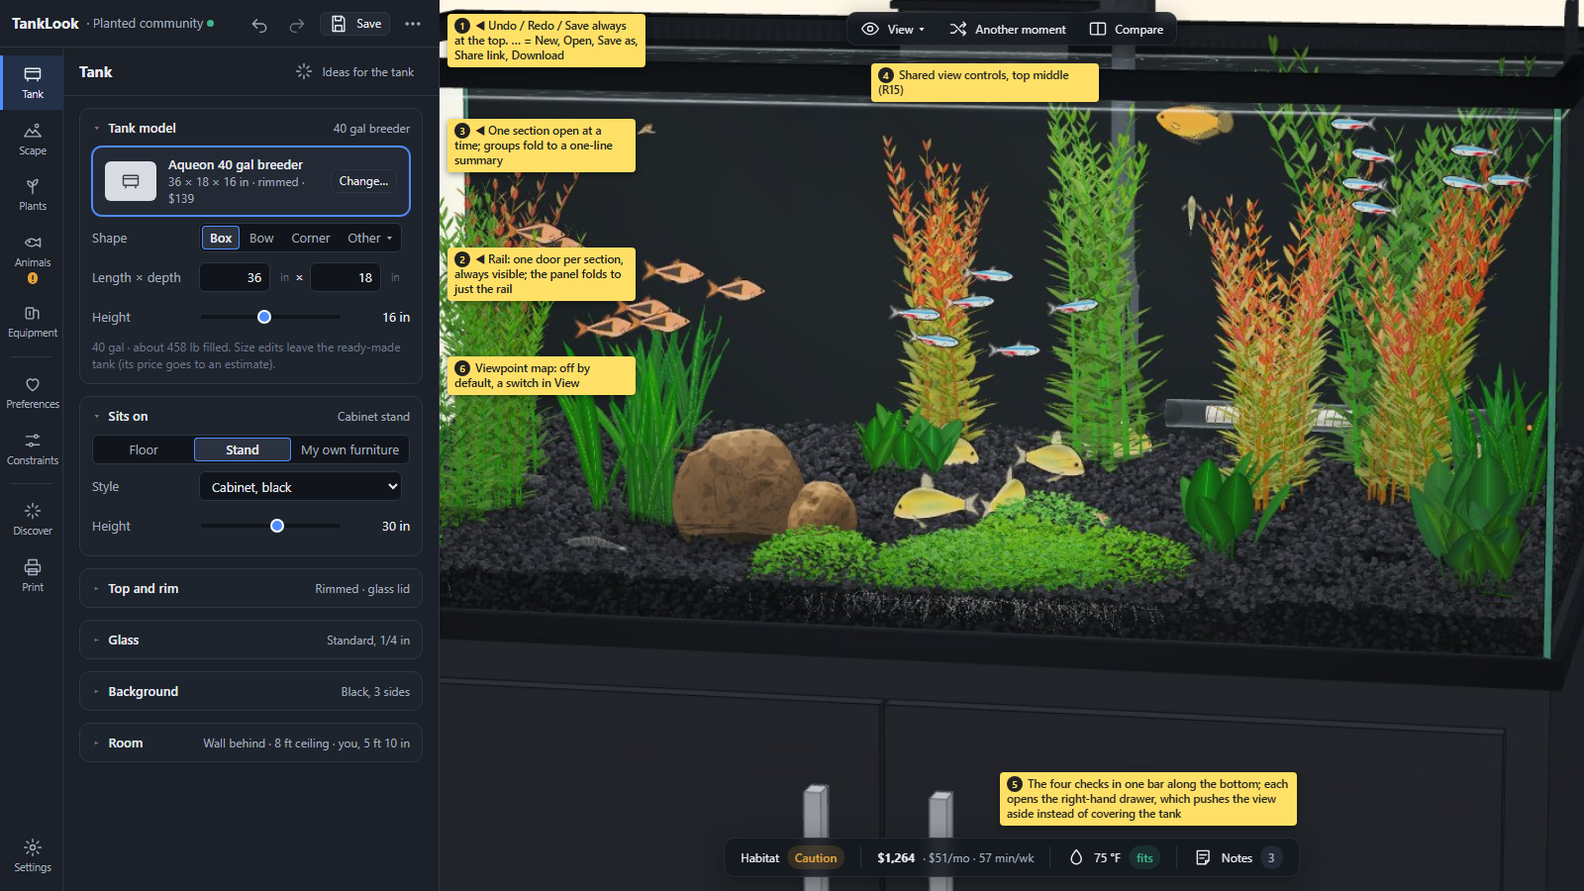
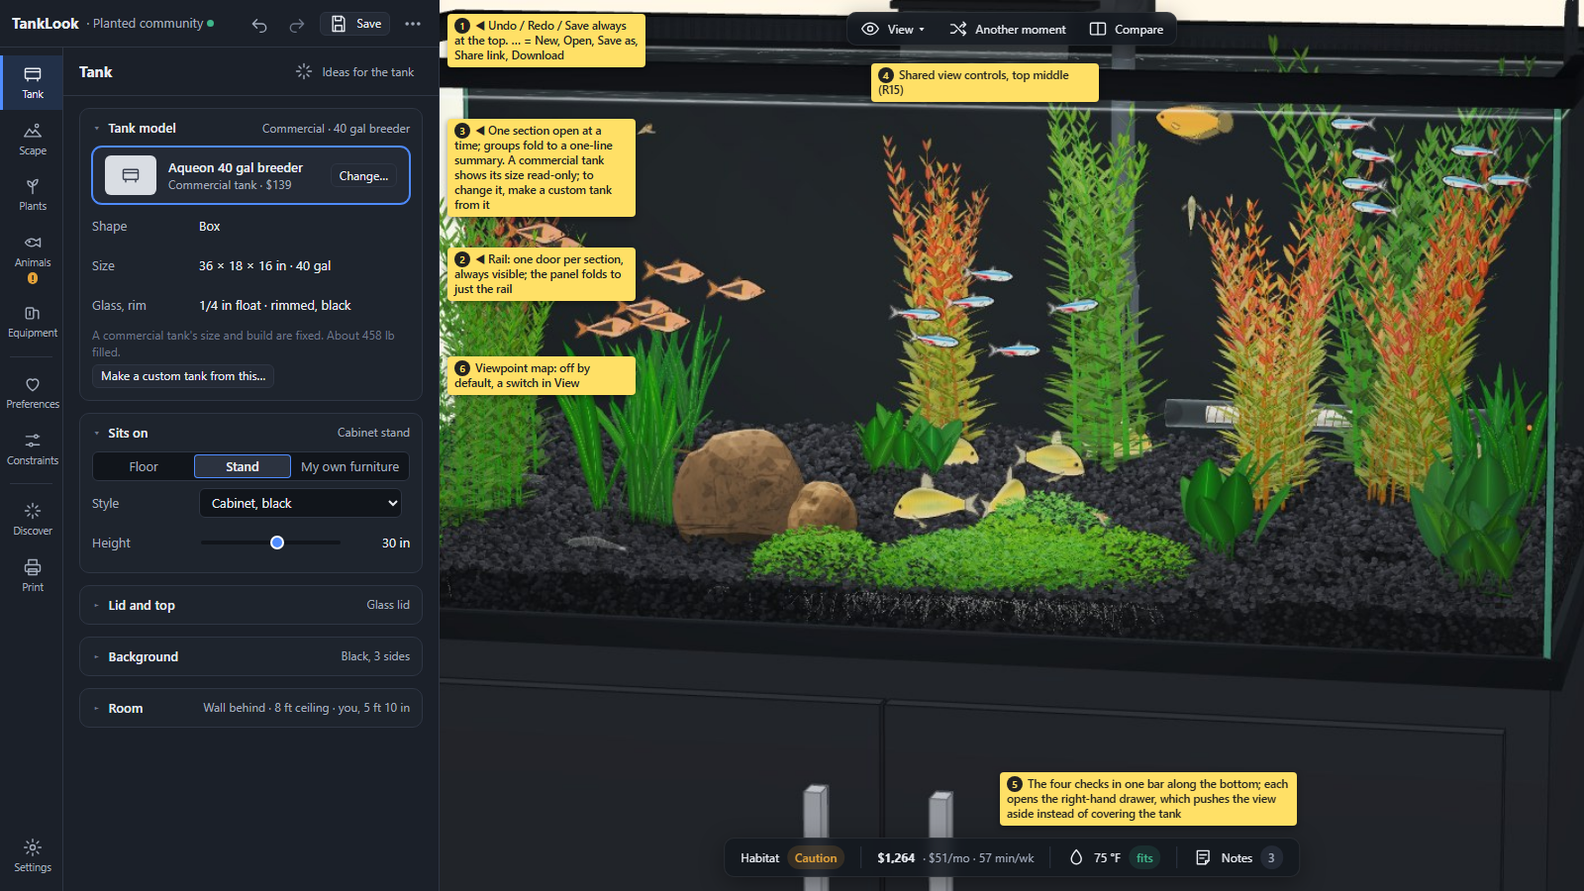
UI2: commercial vs custom tanks per Nathan 11-13
Commercial tanks are fixed (size and build read-only); custom tanks come from a new Custom
tank maker and are saved to a per-browser library kept across setups (setups keep their own
copy). Doc 2/3/7/9 updated: tank shape and size have one home (the maker), new step P9
(custom tank library + migration of hand-edited product tanks to auto-named custom tanks).
Shot 01 redone (no editable size on the Aqueon 40 breeder); new 06-tank-picker and
07-custom-tank-maker.

diff --git a/research/design/ui2/06-tank-picker.html b/research/design/ui2/06-tank-picker.html
@@ -1,0 +1,50 @@
+<!doctype html>
+<html lang="en"><head><meta charset="utf-8"><title>UI2 mockup: Tank > Choose a tank (commercial / custom)</title>
+<link rel="stylesheet" href="tokens.css">
+<style>
+  .app { display: grid; height: 100vh; grid-template-columns: var(--rail-w) 420px 1fr; grid-template-rows: var(--header-h) 1fr; grid-template-areas: "head head view" "rail panel view"; }
+  .app > header { grid-area: head; } .app > .rail { grid-area: rail; } .app > .panel { grid-area: panel; } .app > .viewer { grid-area: view; }
+  .tk { display: grid; grid-template-columns: 44px minmax(0,1fr) auto; gap: var(--s3); align-items: center; padding: var(--s2) var(--s3); }
+  .tk .thumb { width: 44px; height: 36px; display: grid; place-items: center; color: #3a4150; }
+  .lockbtn { height: var(--ctl-h-sm); padding: 0 var(--s2); border-radius: var(--r-pill); border: 1px solid var(--line); background: transparent; color: var(--text-3); display: inline-flex; align-items: center; }
+  .lockbtn .i { width: 14px; height: 14px; }
+  .gh .n { color: var(--text-3); font-weight: 400; }
+</style></head>
+<body>
+<script src="icons.js"></script><script src="shell.js"></script>
+<div class="app" id="app"></div>
+<script>
+const tk = (name, meta, o = {}) => `<div class="card tk ${o.sel ? 'sel' : ''}"><div class="thumb">${I('tank')}</div>
+  <div><div class="t">${name}</div><div class="m">${meta}</div>${o.pills ? `<div style="display:flex;gap:4px;margin-top:4px">${o.pills}</div>` : ''}</div>
+  <div style="display:flex;gap:4px;align-items:center">${o.right || ''}<button class="lockbtn" title="Use this one for sure">${I('lock')}</button></div></div>`;
+document.getElementById('app').innerHTML = apphead() + rail('tank', {animals: '!'}) + `
+<section class="panel">
+  <div class="sec-head"><button class="btn icon ghost sm" title="Back to Tank">&#9664;</button><h2>Choose a tank</h2><span class="hint">arrow keys flip, the tank redraws</span></div>
+  <div class="sec-body">
+    <div class="input" style="display:flex;align-items:center;gap:6px;color:var(--text-3)">${I('search')} Search tanks</div>
+    <div class="group open"><div class="gh">Custom tanks <span class="n">2</span><span class="sum">yours, kept across setups</span></div><div class="gb">
+      ${tk('Living-room bow 60', 'Bow front &middot; 48 &times; 18 &times; 24 in &middot; 62 gal &middot; rimless', {pills: '<span class="pill ok">Owned</span>', right: '<button class="btn sm ghost">Edit</button>'})}
+      ${tk('Shelf cube', 'Cube &middot; 12 &times; 12 &times; 12 in &middot; 7.5 gal &middot; rimless', {right: '<button class="btn sm ghost">Edit</button>'})}
+      <button class="btn sm" style="justify-self:start">${I('plus')} New custom tank</button>
+    </div></div>
+    <div class="group open"><div class="gh">Commercial tanks <span class="n">118</span><span class="sum">fixed size and build</span></div><div class="gb">
+      <div style="display:flex;gap:6px;flex-wrap:wrap"><span class="chip">Under 20 gal</span><span class="chip on">20-40</span><span class="chip">40-75</span><span class="chip">75+</span><span class="chip on">Fits my space</span></div>
+      ${tk('Aqueon 29 gal', '30 &times; 12 &times; 18 in &middot; rimmed &middot; $99', {right: '<span class="hint">$450-1,400</span>'})}
+      ${tk('Aqueon 40 gal breeder', '36 &times; 18 &times; 16 in &middot; rimmed &middot; $139', {sel: 1, pills: '<span class="pill accent">In use</span>', right: '<span class="hint">$600-1,900</span>'})}
+      ${tk('Waterbox Clear 35.2', '31.5 &times; 15.7 &times; 15.7 in &middot; rimless &middot; $330', {right: '<span class="hint">$800-2,300</span>'})}
+      ${tk('UNS 90U', '35.4 &times; 17.7 &times; 17.7 in &middot; rimless &middot; $380', {right: '<span class="hint">$850-2,400</span>'})}
+    </div></div>
+    <button class="btn primary" style="justify-self:stretch">Choose Aqueon 40 gal breeder</button>
+  </div>
+</section>
+<main class="viewer">
+  <div class="ov" style="top:12px;left:50%;transform:translateX(-50%)">${toolbar()}</div>
+  <div class="ov" style="bottom:14px;left:50%;transform:translateX(-50%)">${checkbar({full: 1})}</div>
+</main>`;
+</script>
+<div style="position:absolute;inset:0;pointer-events:none">
+  <div class="note" data-n="1" style="top:110px;left:492px;max-width:250px">&#9664; Custom tanks: made in the custom tank maker, named, kept across setups</div>
+  <div class="note" data-n="2" style="top:330px;left:492px;max-width:250px">&#9664; Commercial tanks: off the shelf; size and build cannot be edited. Grey range = finished-tank price (Nathan 11-05; mockup numbers)</div>
+  <div class="note" data-n="3" style="top:200px;left:492px;max-width:250px">&#9664; Owned pill and "for sure" lock work as in Equipment</div>
+</div>
+</body></html>

diff --git a/research/design/ui2/01-editor-desktop.html b/research/design/ui2/01-editor-desktop.html
@@ -13,22 +13,22 @@ document.getElementById('app').innerHTML = apphead() + rail('tank', {animals: '!
 <section class="panel">
   <div class="sec-head"><h2>Tank</h2><button class="btn sm ghost">${I('ideas')} Ideas for the tank</button></div>
   <div class="sec-body">
-    <div class="group open"><div class="gh">Tank model <span class="sum">40 gal breeder</span></div><div class="gb">
+    <div class="group open"><div class="gh">Tank model <span class="sum">Commercial &middot; 40 gal breeder</span></div><div class="gb">
       <div class="card media sel"><div class="thumb" style="display:grid;place-items:center;color:#3a4150">${I("tank")}</div>
-        <div><div class="t">Aqueon 40 gal breeder</div><div class="m">36 &times; 18 &times; 16 in &middot; rimmed &middot; $139</div></div>
+        <div><div class="t">Aqueon 40 gal breeder</div><div class="m">Commercial tank &middot; $139</div></div>
         <button class="btn sm">Change&hellip;</button></div>
-      <div class="row"><span class="lbl">Shape</span><div class="seg"><button class="on">Box</button><button>Bow</button><button>Corner</button><button>Other &#9662;</button></div><span></span></div>
-      <div class="row"><span class="lbl">Length &times; depth</span><div style="display:flex;gap:6px;align-items:center"><input class="input num" value="36"><span class="unit">in</span> &times; <input class="input num" value="18"><span class="unit">in</span></div><span></span></div>
-      <div class="row"><span class="lbl">Height</span><input class="slider" type="range" value="45"><span class="val">16 in</span></div>
-      <div class="hint">40 gal &middot; about 458 lb filled. Size edits leave the ready-made tank (its price goes to an estimate).</div>
+      <div class="row"><span class="lbl">Shape</span><span>Box</span><span></span></div>
+      <div class="row"><span class="lbl">Size</span><span>36 &times; 18 &times; 16 in &middot; 40 gal</span><span></span></div>
+      <div class="row"><span class="lbl">Glass, rim</span><span>1/4 in float &middot; rimmed, black</span><span></span></div>
+      <div class="hint">A commercial tank's size and build are fixed. About 458 lb filled.</div>
+      <button class="btn sm" style="justify-self:start">Make a custom tank from this&hellip;</button>
     </div></div>
     <div class="group open"><div class="gh">Sits on <span class="sum">Cabinet stand</span></div><div class="gb">
       <div class="seg full"><button>Floor</button><button class="on">Stand</button><button>My own furniture</button></div>
       <div class="row"><span class="lbl">Style</span><select class="select"><option>Cabinet, black</option></select><span></span></div>
       <div class="row"><span class="lbl">Height</span><input class="slider" type="range" value="55"><span class="val">30 in</span></div>
     </div></div>
-    <div class="group"><div class="gh">Top and rim <span class="sum">Rimmed &middot; glass lid</span></div></div>
-    <div class="group"><div class="gh">Glass <span class="sum">Standard, 1/4 in</span></div></div>
+    <div class="group"><div class="gh">Lid and top <span class="sum">Glass lid</span></div></div>
     <div class="group"><div class="gh">Background <span class="sum">Black, 3 sides</span></div></div>
     <div class="group"><div class="gh">Room <span class="sum">Wall behind &middot; 8 ft ceiling &middot; you, 5 ft 10 in</span></div></div>
   </div>
@@ -41,7 +41,7 @@ document.getElementById('app').innerHTML = apphead() + rail('tank', {animals: '!
 <div style="position:absolute;inset:0;pointer-events:none">
   <div class="note" data-n="1" style="top:14px;left:452px;max-width:200px">&#9664; Undo / Redo / Save always at the top. &hellip; = New, Open, Save as, Share link, Download</div>
   <div class="note" data-n="2" style="top:250px;left:452px;max-width:190px">&#9664; Rail: one door per section, always visible; the panel folds to just the rail</div>
-  <div class="note" data-n="3" style="top:120px;left:452px;max-width:190px">&#9664; One section open at a time; groups fold to a one-line summary</div>
+  <div class="note" data-n="3" style="top:120px;left:452px;max-width:190px">&#9664; One section open at a time; groups fold to a one-line summary. A commercial tank shows its size read-only; to change it, make a custom tank from it</div>
   <div class="note" data-n="4" style="top:64px;left:880px">Shared view controls, top middle (R15)</div>
   <div class="note" data-n="5" style="bottom:66px;left:1010px;max-width:300px">The four checks in one bar along the bottom; each opens the right-hand drawer, which pushes the view aside instead of covering the tank</div>
   <div class="note" data-n="6" style="top:360px;left:452px;max-width:190px">Viewpoint map: off by default, a switch in View</div>

diff --git a/research/design/ui2/07-custom-tank-maker.html b/research/design/ui2/07-custom-tank-maker.html
@@ -1,0 +1,46 @@
+<!doctype html>
+<html lang="en"><head><meta charset="utf-8"><title>UI2 mockup: custom tank maker</title>
+<link rel="stylesheet" href="tokens.css">
+<style>
+  .app { display: grid; height: 100vh; grid-template-columns: var(--rail-w) 420px 1fr; grid-template-rows: var(--header-h) 1fr; grid-template-areas: "head head view" "rail panel view"; }
+  .app > header { grid-area: head; } .app > .rail { grid-area: rail; } .app > .panel { grid-area: panel; } .app > .viewer { grid-area: view; }
+  .foot { display: flex; gap: var(--s2); padding: var(--s3) var(--s4); border-top: 1px solid var(--line); }
+</style></head>
+<body>
+<script src="icons.js"></script><script src="shell.js"></script>
+<div class="app" id="app"></div>
+<script>
+const sl = (l, v, p) => `<div class="row"><span class="lbl">${l}</span><input class="slider" type="range" value="${p}"><span class="val">${v}</span></div>`;
+document.getElementById('app').innerHTML = apphead() + rail('tank', {animals: '!'}) + `
+<section class="panel">
+  <div class="sec-head"><button class="btn icon ghost sm" title="Back">&#9664;</button><h2>New custom tank</h2><span class="hint">started blank</span></div>
+  <div class="sec-body">
+    <div class="row"><span class="lbl">Name</span><input class="input" value="Living-room bow 60" style="width:100%"><span></span></div>
+    <div class="group open"><div class="gh">Shape</div><div class="gb">
+      <div class="seg full"><button>Box</button><button class="on">Bow</button><button>Corner</button><button>Cube</button><button>More &#9662;</button></div>
+    </div></div>
+    <div class="group open"><div class="gh">Size <span class="sum">62 gal &middot; about 690 lb filled</span></div><div class="gb">
+      ${sl('Length', '48 in', 58)}${sl('Depth', '18 in', 40)}${sl('Height', '24 in', 55)}${sl('Bow depth', '3 in', 30)}
+    </div></div>
+    <div class="group open"><div class="gh">Glass and rim</div><div class="gb">
+      <div class="row"><span class="lbl">Glass</span><div class="seg"><button>Float</button><button class="on">Low-iron</button></div><span></span></div>
+      ${sl('Thickness', '3/8 in', 60)}
+      <div class="row"><span class="lbl">Rim</span><div class="seg"><button>Rimmed</button><button class="on">Rimless</button></div><span></span></div>
+      <div class="hint">48 x 24 in rimless needs at least 3/8 in glass.</div>
+    </div></div>
+    <div class="card" style="grid-template-columns:1fr auto;align-items:center"><div><div class="t">Build cost estimate</div><div class="m">custom glass, low-iron, rimless</div></div><span class="big" style="font-size:var(--fs-lg)">$780</span></div>
+    <label class="row" style="grid-template-columns:auto 1fr"><span class="toggle on"></span><span>I own this tank</span></label>
+  </div>
+  <div class="foot"><button class="btn primary" style="flex:1">Save to my tanks and use it</button><button class="btn">Cancel</button></div>
+</section>
+<main class="viewer">
+  <div class="ov" style="top:12px;left:50%;transform:translateX(-50%)">${toolbar()}</div>
+  <div class="ov" style="bottom:14px;left:50%;transform:translateX(-50%)">${checkbar({full: 1})}</div>
+</main>`;
+</script>
+<div style="position:absolute;inset:0;pointer-events:none">
+  <div class="note" data-n="1" style="top:60px;left:492px;max-width:260px">&#9664; The one place a tank's shape and size are set. Started blank or from a commercial tank ("Make a custom tank from this")</div>
+  <div class="note" data-n="2" style="top:250px;left:492px;max-width:250px">&#9664; The tank in the view redraws as you drag (mockup shows a still)</div>
+  <div class="note" data-n="3" style="bottom:110px;left:492px;max-width:260px">&#9664; Saved to "my tanks" in this browser, kept across setups; each setup keeps its own copy</div>
+</div>
+</body></html>

diff --git a/research/design/ui2-screen-map.md b/research/design/ui2-screen-map.md
@@ -6,11 +6,13 @@ Design only, no app code. Built from `research/design/ui1-inventory.md` (UI1, bu
 
 | Shot | What it shows |
 |---|---|
-| `research/screens/UI2/01-editor-desktop.png` | Main editor, 1600 x 900: header, rail, Tank section open, view controls top middle, check bar along the bottom |
+| `research/screens/UI2/01-editor-desktop.png` | Main editor, 1600 x 900: header, rail, Tank section open (a commercial tank: its size is read-only), view controls top middle, check bar along the bottom |
 | `research/screens/UI2/02-editor-phone.png` | Same at 390 x 844: tank on top, check strip, Animals as a bottom sheet, tab bar |
 | `research/screens/UI2/03-split-desktop.png` | Compare: two tanks, one shared control cluster over the seam, "Editing A / B / Both" in the panel, each tank its own check bar |
 | `research/screens/UI2/04-constraints-and-cost.png` | Constraints section open (the one home of every limit) with the Cost and time drawer open on the right |
 | `research/screens/UI2/05-equipment-heater.png` | Equipment > Heater: **I own** and **Buy** groups, one item locked "Use this one for sure" (Nathan 11-13) |
+| `research/screens/UI2/06-tank-picker.png` | Tank > Choose a tank: **Commercial tanks** and **Custom tanks** groups, "New custom tank" (Nathan 11-13) |
+| `research/screens/UI2/07-custom-tank-maker.png` | Custom tank maker: shape, size, glass, rim, name, Save to my tanks; the tank redraws live |
 
 ## 1. Who and what for
 
@@ -40,7 +42,7 @@ Ideas (Discover, Suggest) are not a job of their own: they are a faster way to d
 | **Editor** | all | after Start; resume | header + rail + panel + viewer + check bar + drawer |
 | Header | J5 | always (top of the panel column) | TankLook, project name (click to rename), saved dot, Undo, Redo, Save, `...` = New / Open / Save as / Share link / Download |
 | Rail | J2 | always, also when the panel is folded | Tank, Scape, Plants, Animals, Equipment / Preferences, Constraints / Discover, Print / Settings (bottom): 9 sections + Settings |
-| Section **Tank** | J2 | rail | Tank model and Stand (each with **I own** / **Buy** groups and the "Use this one for sure" lock, as in Equipment; the Buy picker opens docked in the panel, live in the room), shape and size, Sits on (floor / stand / my own furniture), Top and rim, Glass, Background, **Room** (wall, ceiling, person) |
+| Section **Tank** | J2 | rail | **Tank model**: either a **commercial tank** (catalogue product; shape, size, glass and rim fixed, shown read-only) or a **custom tank** (yours, from the custom tank maker). The picker (docked in the panel, live in the room) has two groups, Commercial tanks and Custom tanks (+ New custom tank); any tank row can carry the Owned pill and the "Use this one for sure" lock, as in Equipment. To change a product's size: "Make a custom tank from this" (a copy), never an edit of the product. **Stand** with I own / Buy groups. Then Sits on (floor / stand / my own furniture), Lid and top, Background, **Room** (wall, ceiling, person) |
 | Section **Scape** | J2 | rail | Substrate (type, blend, brush), Terrain (slopes, corners), Hardscape and Decor library, placed pieces |
 | Section **Plants** | J2 | rail | library (grayed by light), placed plants, growth over time |
 | Section **Animals** | J2 | rail | search, filters ("Fits this tank" on by default in Guided), stocking list with counts, Water look (level, tint) |
@@ -72,7 +74,7 @@ Ideas (Discover, Suggest) are not a job of their own: they are a faster way to d
 | 10 | Save as / download / share | KEEP | one dialog from `...` |
 | 11 | "This replaces your current scape" | MERGE | Discover's Apply confirm (Shuffle moves there) |
 | 12 | Tank sizes / Sump size modal | MERGE | Sump: a row in Equipment; tank: picker #13 |
-| 13 | Choose a tank (docked picker) | KEEP | Tank section, docked in the panel, live preview |
+| 13 | Choose a tank (docked picker) | KEEP | Tank section, docked in the panel, live preview; two groups, Commercial tanks / Custom tanks |
 | 14 | Guardrails dialog (checks off) | MERGE | Constraints: each limit has its own on / off switch |
 | 15 | My equipment dialog | MERGE | into the **I own** group of each Equipment category (and Tank / Stand in the Tank section); "No new equipment" moves to Constraints. Nathan 11-13 replaced the 11-05 "separate menu" with this |
 | 16 | Setup sheet | MERGE | Print > Setup sheet preset |
@@ -82,7 +84,7 @@ Ideas (Discover, Suggest) are not a job of their own: they are a faster way to d
 | 20 | Why-not card | KEEP | inside Suggest results |
 | 21 | Setup brief card | MERGE | its lines become the group summaries of Preferences and Constraints |
 | 22 | Header strip | KEEP | Header; units and Guided / Sandbox move to Settings; Discover moves to the rail; "How to use" to Settings > Help |
-| 23 | Tank section | KEEP | Tank section, groups folded to one-line summaries |
+| 23 | Tank section | KEEP | Tank section, groups folded to one-line summaries. Shape, L / H / D, bow / pie / bowl dims, glass and rim move into the **Custom tank maker** (new); for a commercial tank they are read-only |
 | 24 | Room around the tank | MERGE | Tank > Room group |
 | 25 | Substrate | MERGE | Scape section |
 | 26 | Hardscape | MERGE | Scape section (+ Decor, DS1/DS2) |
@@ -139,7 +141,8 @@ Rule (Nathan 2026-11-05, kept): **a shortcut may open the home; it may not hold 
 | No new equipment | Constraints `#cnNoNew`, My equipment `#ownNoNew` (2) | Constraints > Money and time | Equipment shows a note on the Buy groups while it is on |
 | Light power | two sliders 8 rows apart | Equipment > Light | - |
 | Look / style direction | quick prefs (2), hidden Style select | Preferences | Discover uses it; the scene's own materials stay hand edits in their sections (a different thing: what is built, not what you like) |
-| Tank size | picker, L / H / D, Suggest space, Set my space | Tank section (picker + size rows) | header name, Print |
+| Tank shape, size, glass, rim | picker, L / H / D boxes, shape buttons, glass and rim rows (today editable on any tank, products included) | **Custom tank maker** (only for custom tanks; a commercial tank's are fixed) | Tank model card (read-only spec line), header name, Print |
+| Which tank | picker, Suggest space, Set my space | Tank section > Tank model (Commercial / Custom) | Suggest (filters by Constraints > Space) |
 | Camera | View sliders, Lighting "Look from above / Straight on", double-click | View (and double-click in the tank) | - |
 | Units, rules mode, graphics | header, header, View popover | Settings | - |
 
@@ -194,7 +197,7 @@ One expand / collapse glyph (`▸` / `▾`) everywhere; one icon set (24 px stro
 
 The new shell lives beside the old one behind `?ui=2` (own `index2.html` entry, own `src/ui2/`, own stylesheet built from the tokens). Both use the same `Store`, `Viewer` and engine. Old shell untouched until the flip.
 
-**P. Pull logic out first (no visible change; each with tests, each a lane; P8 added 11-13 for the own / buy / lock model):**
+**P. Pull logic out first (no visible change; each with tests, each a lane; P8 and P9 added 11-13 for the own / buy / lock model and custom tanks):**
 
 | Step | Out of | Into | Size |
 |---|---|---|---|
@@ -203,6 +206,7 @@ The new shell lives beside the old one behind `?ui=2` (own `index2.html` entry, 
 | P3 Item / plant edits and plant gate | `panels.ts` 1620-1950 | `scene/itemEdit.ts`, `ui/logic/plantGate.ts` | M |
 | P4 Gear choice application and conversions | `techMenu.ts` | `scene/techEdit.ts`; one `units.ts` for every `toF` / `fromUnits` / `fmtHeight` | L |
 | P8 Gear model: per category an owned list (in the brief), the item in use, and a "use for sure" lock per item; Discover / Suggest / generator read the lock (must use) and the owned list (preferred, $0). Folds `ownedGear.ts` `applyOwned` / `syncEquipment` and the owned flags on scene gear into it; old saves migrate | `ownedGear.ts`, `scene/tech`, Discover locks | `scene/gearOwn.ts` | M |
+| P9 Custom tank library: a custom-tank spec (shape, L / H / D, shape dims, glass, rim, name) saved per browser across setups (LS `tanklook.customTanks`, like the scene library); a setup holds its own copy plus the library id and version. Library edit: setups keep their copy and show "Updated in my tanks: use the new version?". Library delete: setups keep their copy ("Save to my tanks again"). Share link / file carry the copy. Product tanks become read-only (P1's rules apply only in the maker). **Migration:** a saved scene whose dimensions differ from its product, or that has no product, gets an auto-named custom tank on load (e.g. "Custom 36 x 18 x 16 in (from Aqueon 40 breeder)"), added to the library and referenced | `panels.ts` `setTank` / `shapeDims`, `tankPick.ts`, `scene/` tank | `scene/customTank.ts` | M |
 | P5 One home per limit in the data: profile from LS `tanklook.demand` into the brief; room temp stored once; migrate old saves | `demandPanel.ts`, `scene/tech.ts`, brief | `scene/brief.ts` | M |
 | P6 Habitat helpers (`bar`, `topBy`, `tileState`, ...) | `fullnessTile.ts` | `ui/logic/habitat.ts` | S |
 | P7 File ops (library, open example / shared, save / save as) | `panels.ts` 168-494 | `ui/logic/files.ts` | M |
@@ -215,7 +219,7 @@ The old shell is switched to call these as they land, so both shells share one c
 |---|---|---|---|
 | 1 | Skeleton: header (Undo / Redo / Save), rail, panel host, viewer, check bar + the four drawers (read-only) | M | P6 |
 | 2 | Start, open, save, share, resume | M | P7 |
-| 3 | Tank section + docked picker + Room | L | P1 |
+| 3 | Tank section + docked picker (Commercial / Custom) + Custom tank maker + Room | L | P1, P9 |
 | 4 | Animals + Water look + Selection drawer | L | P2 |
 | 5 | Constraints, Preferences, Suggest | M | P5 |
 | 6 | Equipment (category sub-menus, I own / Buy, lock) + Lighting + light map | L | P4, P8 |
@@ -247,8 +251,9 @@ The old shell is switched to call these as they land, so both shells share one c
 | 7 | Add a DOM test environment (happy-dom) for the new shell, or keep node-only tests + screenshot proof per step? | Node-only + screenshots (keeps test runs light on this machine). |
 | 8 | Compare: one "Editing A / B / Both" switch in the panel instead of an Edit tick per tab (shot 03)? | Yes. |
 | 9 | Viewpoint map off by default (a switch in View)? | Yes. |
-| 10 | Order: engine pulls P1-P7 first, then shell steps 1-12 (P1-P8); freeze old-shell UI requests from approval (§8)? | Yes. |
+| 10 | Order: engine pulls P1-P7 first, then shell steps 1-12 (P1-P9); freeze old-shell UI requests from approval (§8)? | Yes. |
 | 11 | R7, the Habitat check name: keep "Habitat check" in the new check bar? | Keep; the drawer title can carry the longer "Habitat check: is it good for the animals?". |
 | 12 | Own / buy / lock (Nathan 11-13, shot 05): "I own" and "Buy" groups per category, an independent "Use this one for sure" lock, no My gear tab, "No new equipment" in Constraints. Confirm the shot matches what you meant? | Yes (already his call; the shot is the check). |
+| 13 | Tanks (Nathan 11-13, shots 01, 06, 07): commercial tanks fixed, custom tanks from a maker saved across setups; a setup keeps its own copy when the library tank is edited or deleted; old scenes with hand-edited product dims become auto-named custom tanks? | Yes to all. |
 
 Lane note: HANDOFF.md not edited (brief: commit only this lane's files); the coordinator adds the dated line.
